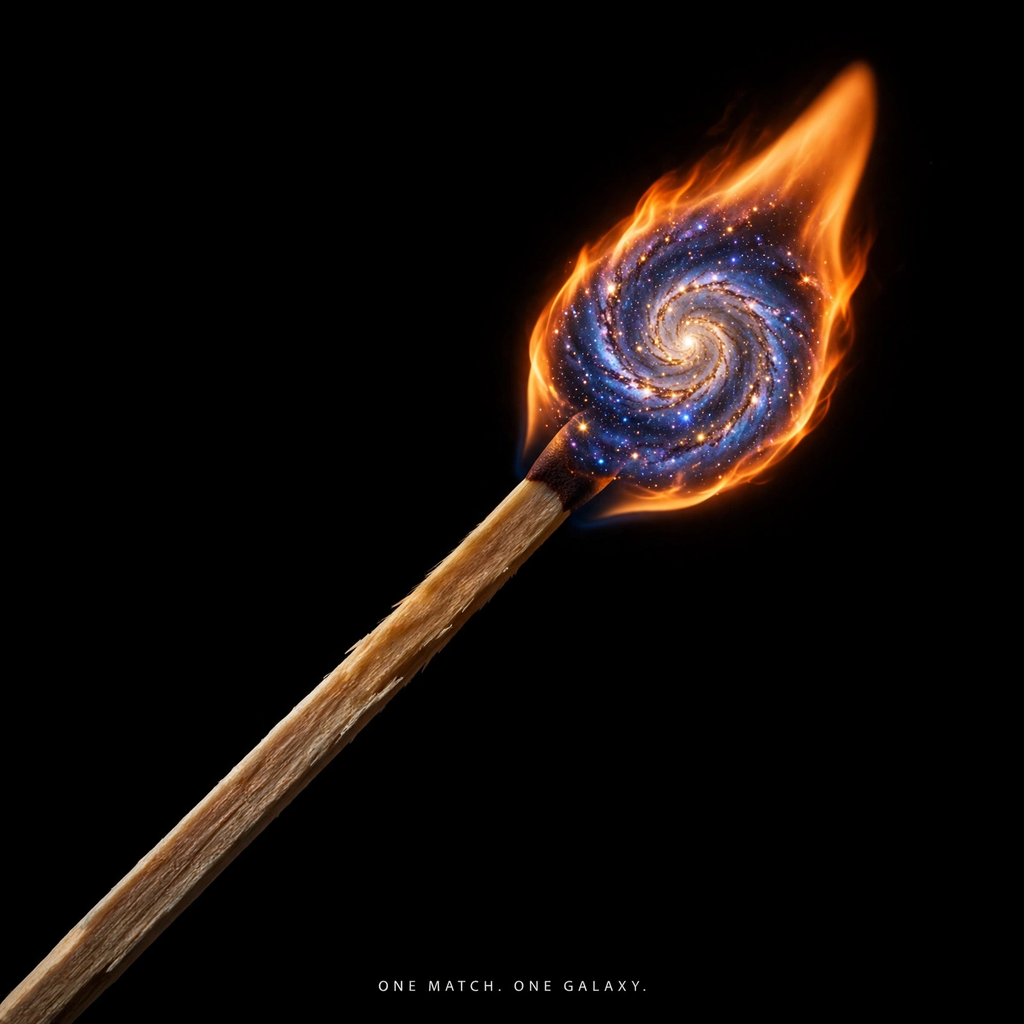
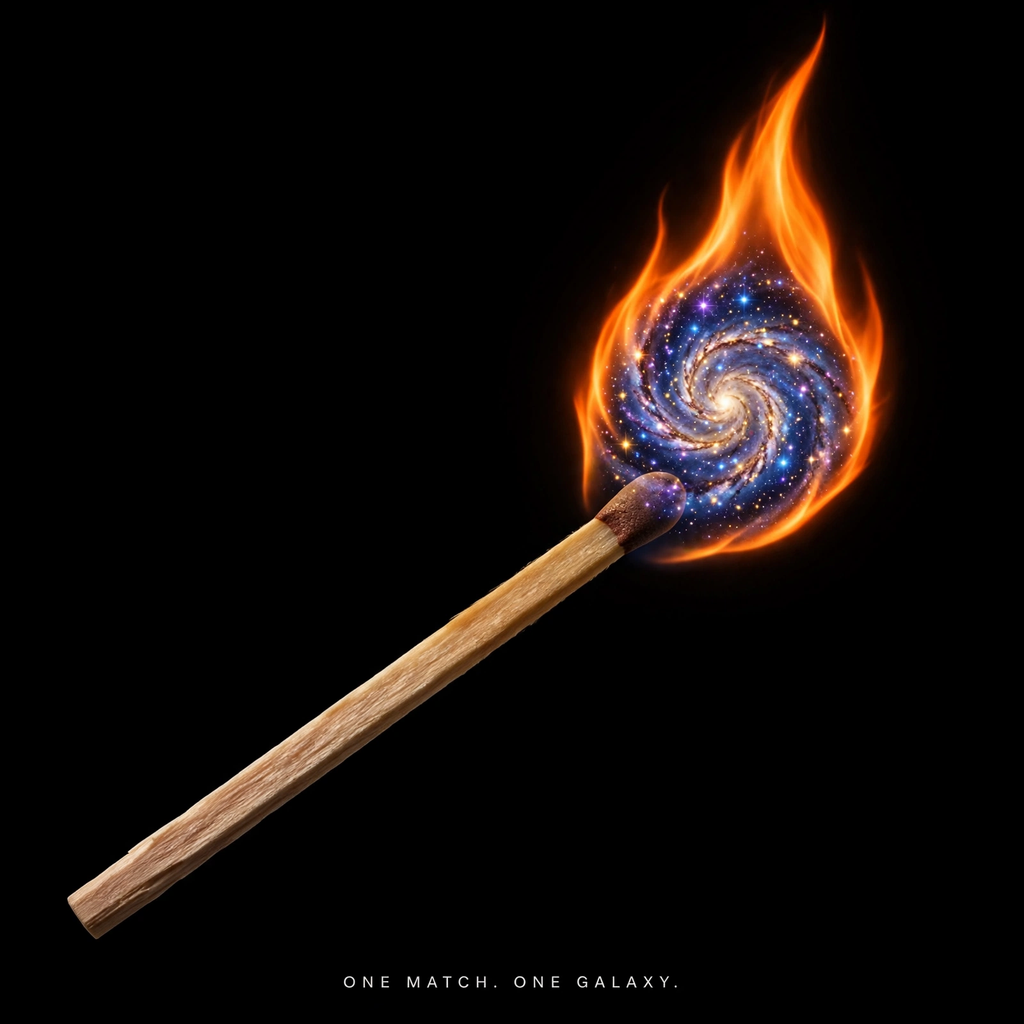
Rebuild ai-excited-01 entry from scratch: one match, one galaxy

Changed region(s): [[0.0, 0.0, 0.9062, 1.0], [0.5, 0.9375, 0.6562, 0.9688], [0.3438, 0.9375, 0.4688, 0.9688]]

diff --git a/main.ts b/main.ts
@@ -1,34 +1,24 @@
-// ai-excited-01 entry: "One Match. One Galaxy."
-//
-// This program is intentionally boring: the artwork is already finished
-// and committed as entry.png next to this file. All the program does is
-// place an exact copy of that image where the judge expects it, so the
-// output is byte-identical on every run.
+// ai-excited-01 — "One Match. One Galaxy."
+// Copies the committed entry image to the output directory the
+// make.fun runner asks for. Node 22, standard library only, no network.
 
-import { copyFileSync, mkdirSync, statSync } from "node:fs";
+import { copyFileSync, existsSync, mkdirSync } from "node:fs";
 import { dirname, join, resolve } from "node:path";
 import { fileURLToPath } from "node:url";
 
-// Resolve the directory this file lives in, so the entry works no
-// matter which working directory the runner starts from.
 const here = dirname(fileURLToPath(import.meta.url));
 const source = join(here, "entry.png");
 
-// MAKEFUN_OUTPUT_DIR wins when set to a non-empty value; otherwise
-// the conventional fallback location is used. A relative value is
-// resolved against the current working directory, and a trailing
-// slash or stray whitespace is harmless.
 const rawDir = process.env.MAKEFUN_OUTPUT_DIR;
-const outputDir =
-  rawDir !== undefined && rawDir.trim() !== ""
-    ? resolve(rawDir.trim())
-    : "/output";
+const trimmed = rawDir === undefined ? "" : rawDir.trim();
+const outputDir = trimmed.length > 0 ? trimmed : "/output";
+
+if (!existsSync(source)) {
+  console.error(`entry image not found: ${source}`);
+  process.exit(1);
+}
 
 mkdirSync(outputDir, { recursive: true });
-
-const destination = join(outputDir, "entry.png");
-copyFileSync(source, destination);
-
-// Confirm the copy landed where the judge will look for it.
-const written = statSync(destination);
-console.log(`Wrote ${destination} (${written.size} bytes)`);
+const target = join(resolve(outputDir), "entry.png");
+copyFileSync(source, target);
+console.log(`wrote ${target}`);

diff --git a/README.md b/README.md
@@ -1,15 +1,16 @@
 # One Match. One Galaxy.
 
-An entry for the [ai-excited-01](https://make.fun/bounty/ai-excited-01) bounty — "Make the AI judge excited".
+[![make.fun](https://make.fun/badge/ai-excited-01.svg)](https://make.fun/c/ai-excited-01)
+[![rank](https://make.fun/badge/ai-excited-01/WV629/ai-excited-01-entry/rank.svg)](https://make.fun/c/ai-excited-01)
+[![reward](https://make.fun/badge/ai-excited-01/WV629/ai-excited-01-entry/reward.svg)](https://make.fun/c/ai-excited-01)
 
-A single wooden matchstick runs diagonally across a pure black background. Its tip is lit — and inside the flame burns a huge, bright spiral galaxy of blue, violet and gold stars. One match. One galaxy.
+Entry for the [make.fun bounty "Make the AI judge excited"](https://make.fun/bounty/ai-excited-01).
 
-[![Bounty](https://make.fun/badge/ai-excited-01.svg)](https://make.fun/c/ai-excited-01)
-[![Rank](https://make.fun/badge/ai-excited-01/WV629/ai-excited-01-entry/rank.svg)](https://make.fun/c/ai-excited-01)
-[![Reward](https://make.fun/badge/ai-excited-01/WV629/ai-excited-01-entry/reward.svg)](https://make.fun/c/ai-excited-01)
+A single wooden matchstick runs diagonally across a pure black background.
+Its tip is lit — and inside the flame burns an entire spiral galaxy, blue,
+violet and gold, wrapped in orange fire. One match. One galaxy. The smallest
+possible spark holding the biggest possible thing.
 
-[Bounty page](https://make.fun/bounty/ai-excited-01)
-
-## How it works
-
-`main.ts` (Node 22, standard library only) copies the committed `entry.png` to `MAKEFUN_OUTPUT_DIR/entry.png` (falling back to `/output/entry.png`), so the output is byte-identical on every run.
+`main.ts` (Node 22, standard library only) copies the committed `entry.png`
+to `$MAKEFUN_OUTPUT_DIR/entry.png` (falling back to `/output/entry.png`).
+The output is byte-identical on every run.
